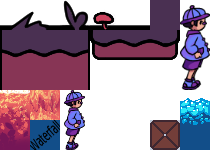
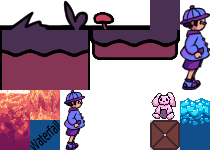
Added the functions from the separate project

Changed region(s): [[0.7143, 0.6133, 0.8571, 0.8]]

diff --git a/player.py b/player.py
@@ -1,42 +1,100 @@
 import pygame
 
-##############
-# parameters #
-##############
-screen_width = 1080
-screen_heigh = 720
-
-
 class Player(pygame.sprite.Sprite):
 
     def __init__(self):
         super().__init__()
-        self.velocity = 14
-        self.velocity_fast = 20
         self.image = pygame.image.load('old_assets/player_walking_frames/right/walk1.png')
+
         self.rect = self.image.get_rect()
-        self.rect.x = 100
-        self.rect.y = 370
+        self.rect.x = 20
+        self.rect.y = 20
+        self.position = pygame.math.Vector2(0, 0)
+        self.velocity = pygame.math.Vector2(0, 0)
+        self.acceleration = pygame.math.Vector2(0, 0.4)
 
-        '''PLAYER MOVEMENT'''
-        self.rect = self.image.get_rect()
-        self.rect.x = 100
-        self.rect.y = 370
+        self.jump = False
+        self.on_ground = False
 
-        '''BOOLEAN '''
-        # Boolean that will indicate if the player is currently moving right or left
-        self.IsmovingRight = False
-        self.IsmovingLeft = False
+        self.stepIndex = 0
 
-    def move_right(self,velocity):
-        # vitesse du joueur
-        self.rect.x += velocity
 
-    def move_left(self,velocity):
-        self.rect.x -= velocity
+    #main function that calls the others
+    def movements(self, game, delta_time):
+        self.mov_x(game, delta_time)
+        self.colli_x(game.carte.tiles_ground)
+        self.mov_y(delta_time)
+        self.colli_y(game.carte.tiles_ground)
 
-    def init_next(self):
-        self.rect.x = 0
+    #function that calculates the x & y coordinates of the player
 
-    def init_previous(self):
-        self.rect.x = screen_width
+    def mov_x(self, game, delta_time):
+        self.acceleration.x = 0
+        if (pygame.key.get_pressed()[pygame.K_RIGHT]) and (self.acceleration.x < 8):
+            self.acceleration.x += 0.6
+
+        if (pygame.key.get_pressed()[pygame.K_LEFT]) and (self.acceleration.x > -8):
+            self.acceleration.x -= 0.6
+
+        self.acceleration.x += self.velocity.x * game.friction
+        self.velocity.x += self.acceleration.x * delta_time
+
+        if (self.velocity.x < 0.1) and (self.velocity.x > -0.1):
+            self.velocity.x = 0
+
+        self.position.x += self.acceleration.x * 0.5 * delta_time ** 2 + self.velocity.x * delta_time
+        self.rect.x = self.position.x
+
+    def mov_y(self, delta_time):
+        if (pygame.key.get_pressed()[pygame.K_UP]) and (self.on_ground is True):
+            self.velocity.y -= 8
+            self.on_ground = False
+            self.jump = True
+        self.velocity.y += self.acceleration.y * delta_time
+
+        if self.velocity.y > 6:
+            self.velocity.y = 6
+
+        self.position.y += self.velocity.y * delta_time + self.acceleration.y / 2 * delta_time ** 2
+        self.rect.bottom = self.position.y
+
+    #functions that rectfies the position in case of a collision
+
+    def colli_x(self, obj_list):
+        collision = self.get_hit(obj_list)
+        for obj in collision:
+            if self.velocity.x > 0:  # hits the box from the left
+                self.position.x = obj.x - self.rect.width
+                self.rect.x = self.position.x
+
+            elif self.velocity.x < 0:  # hits the box from the right
+                self.position.x = obj.right
+                self.rect.x = self.position.x
+
+    def colli_y(self, obj_list):
+        self.on_ground = False
+        self.rect.bottom += 1
+
+        collision = self.get_hit(obj_list)
+        for obj in collision:
+            if self.velocity.y > 0:  # hits the box from the top
+                self.on_ground = True
+                self.jump = False
+                self.velocity.y = 0
+
+                self.position.y = obj.top
+                self.rect.bottom = self.position.y
+
+            elif self.velocity.y < 0:  # hits the box from the bottom
+                self.velocity.y = 0
+                self.position.y = obj.bottom + self.rect.h
+                self.rect.bottom = self.position.y
+
+    def get_hit(self, obj_list):
+        hit_list = []
+        for element in obj_list:
+            if self.rect.colliderect(element):
+                hit_list.append(element)
+
+        return hit_list
+

diff --git a/level.py b/level.py
@@ -1,0 +1,55 @@
+import pygame
+import pytmx
+
+
+class Level:
+
+    def __init__(self):
+        self.tmx_file = pytmx.util_pygame.load_pygame('lvl1.tmx')
+        self.tiles_ground = []
+        self.image_ground = {
+            "images" : [],
+            "coordinates": []
+        }
+        self.tiles_liquid = {
+            "images" : [],
+            "coordinates": []
+        }
+        self.tiles_other = {
+            "images" : [],
+            "coordinates": []
+        }
+
+        self.x = 0
+        self.y = 0
+
+    def load_tmx_data(self):
+
+        for obj in self.tmx_file.objects:
+            if obj.type == "ground":
+                self.tiles_ground.append(pygame.Rect(obj.x, obj.y, obj.width, obj.height))
+
+        layer_id = 0
+        for types in self.tmx_file:
+
+            if types.name == "Sol":
+                for x, y, gid in self.tmx_file.layers[layer_id]:
+                    image = self.tmx_file.get_tile_image(x, y, layer_id)
+                    if image:
+                        self.image_ground["images"].append(image)
+                        self.image_ground["coordinates"].append((x, y))
+
+            elif types.name == "Liquides":
+                for x, y, gid in self.tmx_file.layers[layer_id]:
+                    image = self.tmx_file.get_tile_image(x, y, layer_id)
+                    if image:
+                        self.tiles_liquid["images"].append(image)
+                        self.tiles_liquid["coordinates"].append((x, y))
+
+            elif types.name == "Autre":
+                for x, y, gid in self.tmx_file.layers[layer_id]:
+                    image = self.tmx_file.get_tile_image(x, y, layer_id)
+                    if image:
+                        self.tiles_other["images"].append(image)
+                        self.tiles_other["coordinates"].append((x, y))
+            layer_id += 1

diff --git a/menu.py b/menu.py
@@ -1,0 +1,46 @@
+import pygame
+
+class Player():
+
+    def __init__(self):
+        main_menu = True
+        rules_menu = False
+        credits_menu = False
+        paused = False
+
+class Button():
+    # We put an image so that we can change the purpose of buttons at once and not re-create function per buttons
+    def __init__(self, x, y, image):
+        self.image = image
+        self.rect = self.image.get_rect()
+        self.rect.x = x
+        self.rect.y = y
+        self.is_the_button_pressed = False
+
+        self.small_font = pygame.font.Font("freesansbold.ttf", 25)
+        self.medium_font = pygame.font.Font("freesansbold.ttf", 50)
+        self.big_font = pygame.font.Font("freesansbold.ttf", 80)
+
+    def draw(self):
+
+        # We define a variable which will tell us if the user pressed the button
+
+        has_user_clicked = False
+
+        # we get the mouse position
+        pos = pygame.mouse.get_pos()
+        # Since rect acts like a rectangle, we can use a collision function to see if clicked
+
+        # First we confirm that the mouse is on the button
+        if self.rect.collidepoint(pos):
+            # Now we checked if the mouse clicked, [0] means the left mouse button
+            if pygame.mouse.get_pressed()[0] == 1 and self.is_the_button_pressed == False:
+                has_user_clicked = True
+                self.is_the_button_pressed = True
+
+        if pygame.mouse.get_pressed()[0] == 1:
+            self.is_the_button_pressed = False
+
+        screen.blit(self.image, self.rect)
+
+        return has_user_clicked

diff --git a/game.py b/game.py
@@ -1,14 +1,35 @@
+from level import Level
 from player import Player
-#from ennemies import Boomerang
+from settings import *
 
 
-# we create the class of the game
 class Game:
-
     def __init__(self):
-        # we generate our player
-        self.player = Player()
-        #self.boomerang = Boomerang()
-        self.pressed = {}
+        super().__init__()
+        self.carte = Level()
+        self.joueur = Player()
+        self.ecran = pygame.display.set_mode((screen_width, screen_height))
+
+        self.gravity = -0.4
+        self.friction = -0.15
+
+    def affichage(self):
+
+        # printing stuff
+        self.ecran.fill((255, 255, 255))
+
+        for i in range(len(self.carte.image_ground["images"])):
+            self.ecran.blit(self.carte.image_ground["images"][i],
+                       (self.carte.image_ground["coordinates"][i][0] * 30, self.carte.image_ground["coordinates"][i][1] * 30))
+
+        self.ecran.blit(self.joueur.image, (self.joueur.rect.x, self.joueur.rect.y))
+
+        for i in range(len(self.carte.tiles_liquid["images"])):
+            self.ecran.blit(self.carte.tiles_liquid["images"][i],
+                       (self.carte.tiles_liquid["coordinates"][i][0] * 30, self.carte.tiles_liquid["coordinates"][i][1] * 30))
+
+        for i in range(len(self.carte.tiles_other["images"])):
+            self.ecran.blit(self.carte.tiles_other["images"][i],
+                       (self.carte.tiles_other["coordinates"][i][0] * 30, self.carte.tiles_other["coordinates"][i][1] * 30))
 
 
